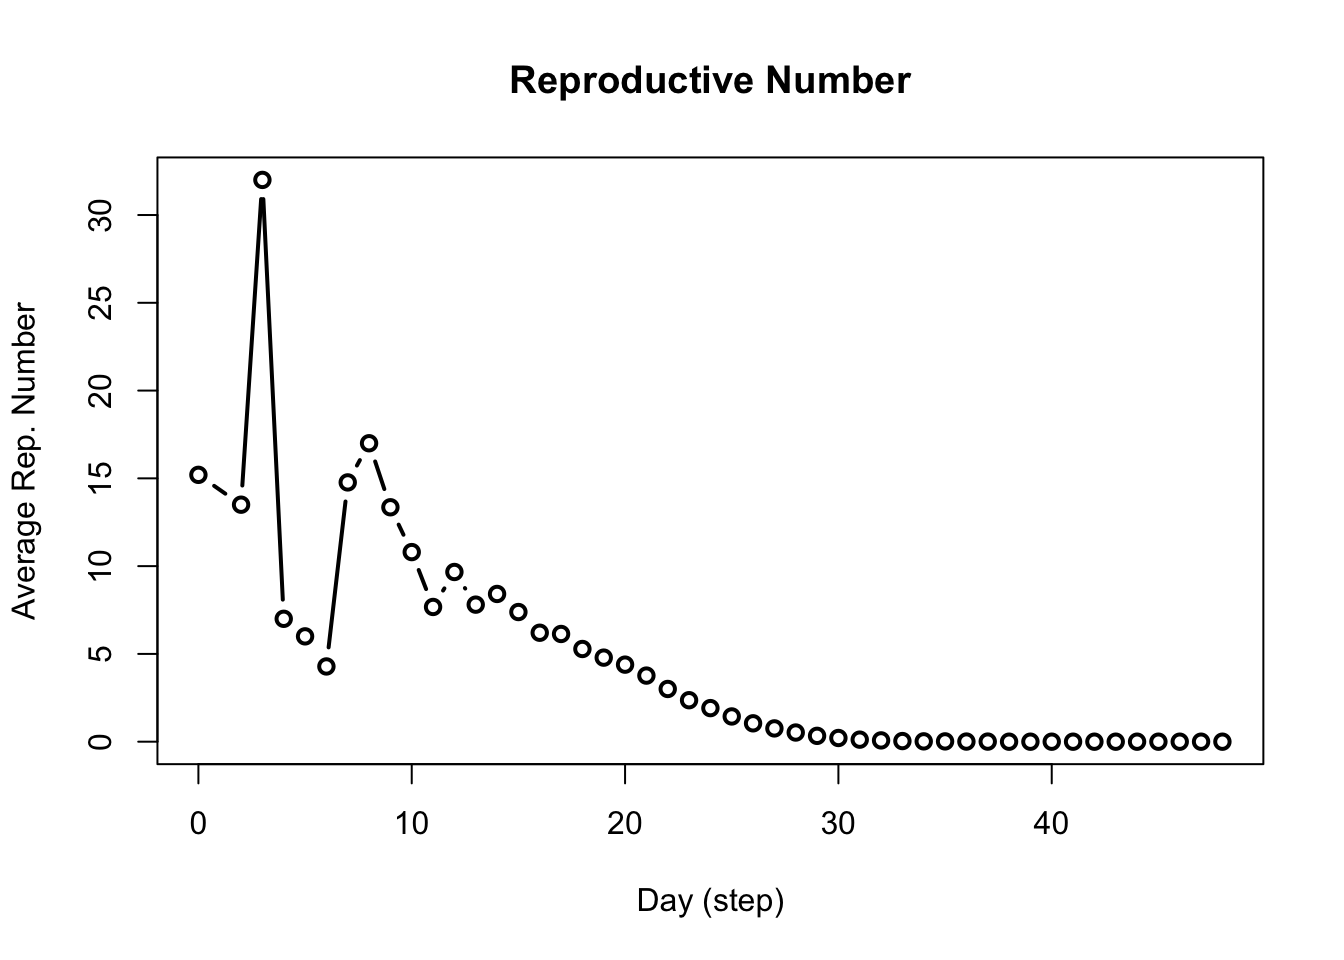
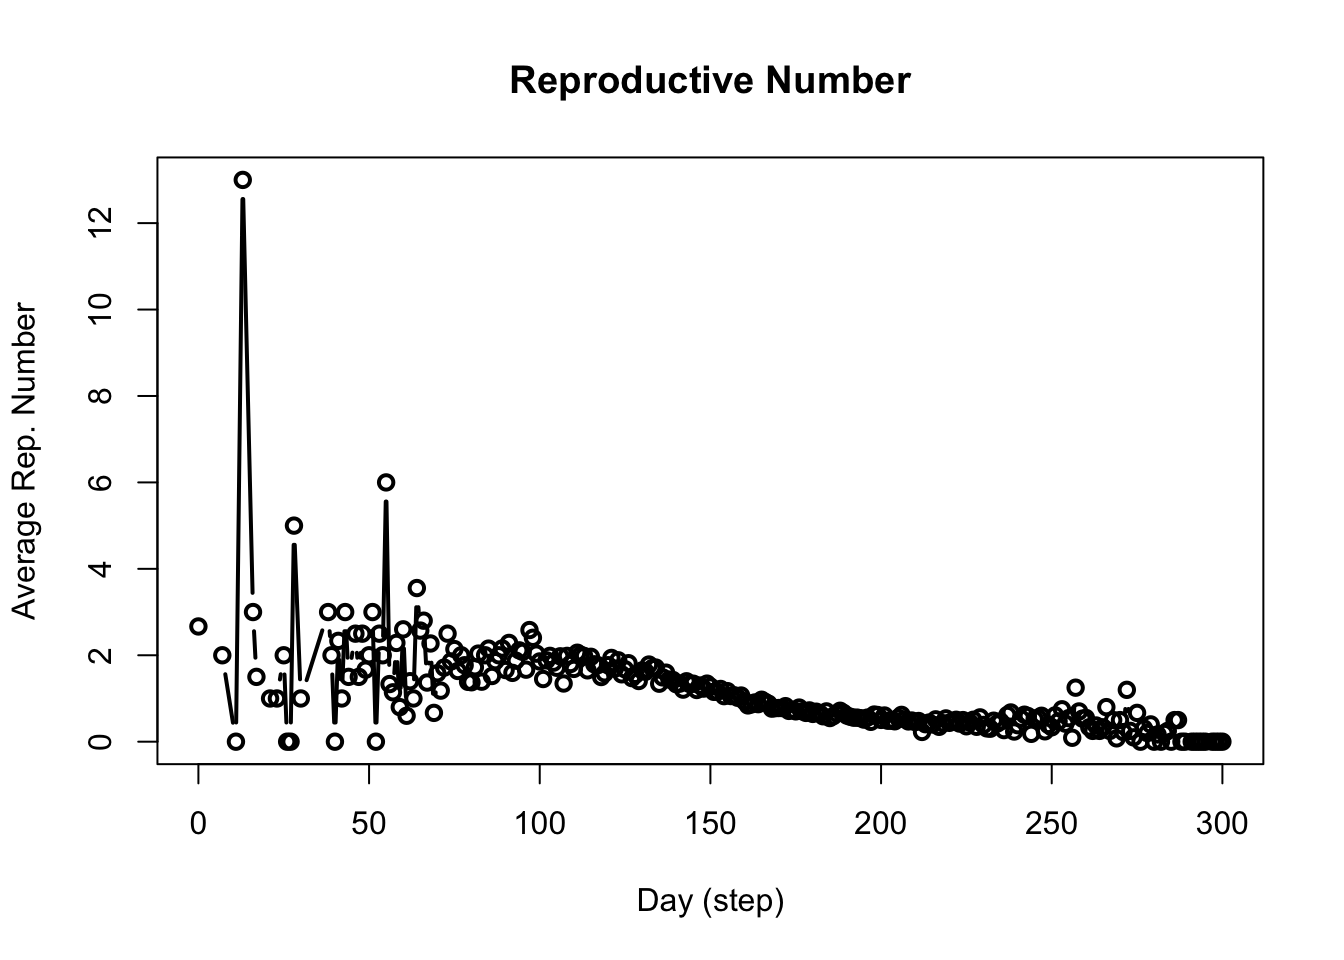
Use R0 equation for monkeypox

diff --git a/docs/part1.html b/docs/part1.html
@@ -258,7 +258,7 @@ see '?methods' for accessing help and source code</code></pre>
 <li>
 <strong>Initial Disease Prevalence:</strong> 0.0001 (5 agents start the simulation exposed to the virus)</li>
 <li>
-<strong>Contact Rate:</strong> 4 (each agent will contact 4 others during each model step/day)</li>
+<strong>Contact Rate:</strong> 4 (how many other agents each agent will contact during each model step/day)</li>
 <li>
 <strong>Incubation Days:</strong> 7 (how long after infection before symptoms appear)</li>
 <li>
@@ -266,18 +266,27 @@ see '?methods' for accessing help and source code</code></pre>
 <li>
 <strong>Recovery Rate:</strong> <span class="math inline">\(\frac{1}{7}\)</span> (infected agents take 7 days to recover)</li>
 </ul>
+<p>Using the <a href="https://en.wikipedia.org/wiki/Basic_reproduction_number" target="_blank">basic reproductive number</a> equation (R0) equation (R0 = P(transmission) * contact_rate / P(recovery)) and <code>R0_monkeypox = 2.44</code>, the contact rate is computed as about 0.571 as follows:</p>
+<div class="cell">
+<details open="" class="code-fold"><summary>Code</summary><div class="sourceCode cell-code" id="cb3"><pre class="sourceCode numberSource r number-lines code-with-copy"><code class="sourceCode r"><span id="cb3-1"><a href="#cb3-1"></a>monkeypox_r0 <span class="ot">&lt;-</span> <span class="dv">2</span></span>
+<span id="cb3-2"><a href="#cb3-2"></a>monkeypox_transmission_rate <span class="ot">&lt;-</span> <span class="fl">0.5</span></span>
+<span id="cb3-3"><a href="#cb3-3"></a>monkeypox_recovery_rate <span class="ot">&lt;-</span> <span class="dv">1</span><span class="sc">/</span><span class="dv">7</span></span>
+<span id="cb3-4"><a href="#cb3-4"></a></span>
+<span id="cb3-5"><a href="#cb3-5"></a>monkeypox_contact_rate <span class="ot">&lt;-</span> monkeypox_r0 <span class="sc">*</span> monkeypox_recovery_rate <span class="sc">/</span> monkeypox_transmission_rate</span></code><button title="Copy to Clipboard" class="code-copy-button"><i class="bi"></i></button></pre></div>
+</details>
+</div>
 <section id="model-setup" class="level3"><h3 class="anchored" data-anchor-id="model-setup">Model Setup</h3>
 <p>Create the model with the above characteristics using the <code>ModelSEIRCONN()</code> function.</p>
 <div class="cell">
-<details open="" class="code-fold"><summary>Code</summary><div class="sourceCode cell-code" id="cb3"><pre class="sourceCode numberSource r number-lines code-with-copy"><code class="sourceCode r"><span id="cb3-1"><a href="#cb3-1"></a>monkeypox_model <span class="ot">&lt;-</span> <span class="fu">ModelSEIRCONN</span>(</span>
-<span id="cb3-2"><a href="#cb3-2"></a>  <span class="at">name              =</span> <span class="st">"Monkeypox"</span>,</span>
-<span id="cb3-3"><a href="#cb3-3"></a>  <span class="at">n                 =</span> <span class="dv">50000</span>, </span>
-<span id="cb3-4"><a href="#cb3-4"></a>  <span class="at">prevalence        =</span> <span class="fl">0.0001</span>, </span>
-<span id="cb3-5"><a href="#cb3-5"></a>  <span class="at">contact_rate      =</span> <span class="dv">4</span>,</span>
-<span id="cb3-6"><a href="#cb3-6"></a>  <span class="at">incubation_days   =</span> <span class="dv">7</span>,</span>
-<span id="cb3-7"><a href="#cb3-7"></a>  <span class="at">transmission_rate =</span> <span class="fl">0.5</span>,</span>
-<span id="cb3-8"><a href="#cb3-8"></a>  <span class="at">recovery_rate     =</span> <span class="dv">1</span><span class="sc">/</span><span class="dv">7</span></span>
-<span id="cb3-9"><a href="#cb3-9"></a>  )</span></code><button title="Copy to Clipboard" class="code-copy-button"><i class="bi"></i></button></pre></div>
+<details open="" class="code-fold"><summary>Code</summary><div class="sourceCode cell-code" id="cb4"><pre class="sourceCode numberSource r number-lines code-with-copy"><code class="sourceCode r"><span id="cb4-1"><a href="#cb4-1"></a>monkeypox_model <span class="ot">&lt;-</span> <span class="fu">ModelSEIRCONN</span>(</span>
+<span id="cb4-2"><a href="#cb4-2"></a>  <span class="at">name              =</span> <span class="st">"Monkeypox"</span>,</span>
+<span id="cb4-3"><a href="#cb4-3"></a>  <span class="at">n                 =</span> <span class="dv">50000</span>, </span>
+<span id="cb4-4"><a href="#cb4-4"></a>  <span class="at">prevalence        =</span> <span class="fl">0.0001</span>, </span>
+<span id="cb4-5"><a href="#cb4-5"></a>  <span class="at">contact_rate      =</span> monkeypox_contact_rate,</span>
+<span id="cb4-6"><a href="#cb4-6"></a>  <span class="at">incubation_days   =</span> <span class="dv">7</span>,</span>
+<span id="cb4-7"><a href="#cb4-7"></a>  <span class="at">transmission_rate =</span> monkeypox_transmission_rate,</span>
+<span id="cb4-8"><a href="#cb4-8"></a>  <span class="at">recovery_rate     =</span> monkeypox_recovery_rate</span>
+<span id="cb4-9"><a href="#cb4-9"></a>  )</span></code><button title="Copy to Clipboard" class="code-copy-button"><i class="bi"></i></button></pre></div>
 </details>
 </div>
 </section><section id="run-the-model" class="level3"><h3 class="anchored" data-anchor-id="run-the-model">Run the Model</h3>
@@ -303,34 +312,34 @@ Connected vs Non-Connected Models
 </div>
 </div>
 <div class="cell">
-<details open="" class="code-fold"><summary>Code</summary><div class="sourceCode cell-code" id="cb4"><pre class="sourceCode numberSource r number-lines code-with-copy"><code class="sourceCode r"><span id="cb4-1"><a href="#cb4-1"></a><span class="fu">verbose_off</span>(monkeypox_model)</span>
-<span id="cb4-2"><a href="#cb4-2"></a><span class="fu">run</span>(monkeypox_model, <span class="at">ndays =</span> <span class="dv">100</span>, <span class="at">seed =</span> <span class="dv">1912</span>)</span>
-<span id="cb4-3"><a href="#cb4-3"></a></span>
-<span id="cb4-4"><a href="#cb4-4"></a>monkeypox_model</span></code><button title="Copy to Clipboard" class="code-copy-button"><i class="bi"></i></button></pre></div>
+<details open="" class="code-fold"><summary>Code</summary><div class="sourceCode cell-code" id="cb5"><pre class="sourceCode numberSource r number-lines code-with-copy"><code class="sourceCode r"><span id="cb5-1"><a href="#cb5-1"></a><span class="fu">verbose_off</span>(monkeypox_model)</span>
+<span id="cb5-2"><a href="#cb5-2"></a><span class="fu">run</span>(monkeypox_model, <span class="at">ndays =</span> <span class="dv">100</span>, <span class="at">seed =</span> <span class="dv">1912</span>)</span>
+<span id="cb5-3"><a href="#cb5-3"></a></span>
+<span id="cb5-4"><a href="#cb5-4"></a>monkeypox_model</span></code><button title="Copy to Clipboard" class="code-copy-button"><i class="bi"></i></button></pre></div>
 </details><div class="cell-output cell-output-stdout">
 <pre><code>________________________________________________________________________________
 Susceptible-Exposed-Infected-Removed (SEIR) (connected)
 It features 50000 agents, 1 virus(es), and 0 tool(s).
 The model has 4 states.
-The final distribution is: 0 Susceptible, 1 Exposed, 8 Infected, and 49991 Recovered.</code></pre>
+The final distribution is: 48982 Susceptible, 265 Exposed, 209 Infected, and 544 Recovered.</code></pre>
 </div>
 </div>
 <p>After running the model, printing it gives the final distribution of agents across the four SEIR states. If we want to re-run the model for a different duraction, <code>epiworldR</code> allows us to do this without re-initializing the model.</p>
 <div class="cell">
-<details open="" class="code-fold"><summary>Code</summary><div class="sourceCode cell-code" id="cb6"><pre class="sourceCode numberSource r number-lines code-with-copy"><code class="sourceCode r"><span id="cb6-1"><a href="#cb6-1"></a><span class="fu">run</span>(monkeypox_model, <span class="at">ndays =</span> <span class="dv">60</span>, <span class="at">seed =</span> <span class="dv">1912</span>)</span>
-<span id="cb6-2"><a href="#cb6-2"></a>monkeypox_model</span></code><button title="Copy to Clipboard" class="code-copy-button"><i class="bi"></i></button></pre></div>
+<details open="" class="code-fold"><summary>Code</summary><div class="sourceCode cell-code" id="cb7"><pre class="sourceCode numberSource r number-lines code-with-copy"><code class="sourceCode r"><span id="cb7-1"><a href="#cb7-1"></a><span class="fu">run</span>(monkeypox_model, <span class="at">ndays =</span> <span class="dv">300</span>, <span class="at">seed =</span> <span class="dv">1912</span>)</span>
+<span id="cb7-2"><a href="#cb7-2"></a>monkeypox_model</span></code><button title="Copy to Clipboard" class="code-copy-button"><i class="bi"></i></button></pre></div>
 </details><div class="cell-output cell-output-stdout">
 <pre><code>________________________________________________________________________________
 Susceptible-Exposed-Infected-Removed (SEIR) (connected)
 It features 50000 agents, 1 virus(es), and 0 tool(s).
 The model has 4 states.
-The final distribution is: 0 Susceptible, 474 Exposed, 2263 Infected, and 47263 Recovered.</code></pre>
+The final distribution is: 10212 Susceptible, 18 Exposed, 29 Infected, and 39741 Recovered.</code></pre>
 </div>
 </div>
 </section><section id="model-summary" class="level3"><h3 class="anchored" data-anchor-id="model-summary">Model Summary</h3>
 <p>For more detailed output than the simple print, use the <code><a href="https://rdrr.io/r/base/summary.html">summary()</a></code> function:</p>
 <div class="cell">
-<details open="" class="code-fold"><summary>Code</summary><div class="sourceCode cell-code" id="cb8"><pre class="sourceCode numberSource r number-lines code-with-copy"><code class="sourceCode r"><span id="cb8-1"><a href="#cb8-1"></a><span class="fu">summary</span>(monkeypox_model)</span></code><button title="Copy to Clipboard" class="code-copy-button"><i class="bi"></i></button></pre></div>
+<details open="" class="code-fold"><summary>Code</summary><div class="sourceCode cell-code" id="cb9"><pre class="sourceCode numberSource r number-lines code-with-copy"><code class="sourceCode r"><span id="cb9-1"><a href="#cb9-1"></a><span class="fu">summary</span>(monkeypox_model)</span></code><button title="Copy to Clipboard" class="code-copy-button"><i class="bi"></i></button></pre></div>
 </details><div class="cell-output cell-output-stdout">
 <pre><code>________________________________________________________________________________
 ________________________________________________________________________________
@@ -340,12 +349,12 @@ Name of the model   : Susceptible-Exposed-Infected-Removed (SEIR) (connected)
 Population size     : 50000
 Agents' data        : (none)
 Number of entities  : 0
-Days (duration)     : 60 (of 60)
+Days (duration)     : 300 (of 300)
 Number of viruses   : 1
-Last run elapsed t  : 97.00ms
-Total elapsed t     : 205.00ms (2 runs)
-Last run speed      : 30.82 million agents x day / second
-Average run speed   : 29.23 million agents x day / second
+Last run elapsed t  : 201.00ms
+Total elapsed t     : 265.00ms (2 runs)
+Last run speed      : 74.31 million agents x day / second
+Average run speed   : 113.02 million agents x day / second
 Rewiring            : off
 
 Global events:
@@ -359,20 +368,20 @@ Tool(s):
 
 Model parameters:
  - Avg. Incubation days : 7.0000
- - Contact rate         : 4.0000
+ - Contact rate         : 0.5714
  - Prob. Recovery       : 0.1429
  - Prob. Transmission   : 0.5000
 
-Distribution of the population at time 60:
-  - (0) Susceptible : 49995 -&gt; 0
-  - (1) Exposed     :     5 -&gt; 474
-  - (2) Infected    :     0 -&gt; 2263
-  - (3) Recovered   :     0 -&gt; 47263
+Distribution of the population at time 300:
+  - (0) Susceptible : 49995 -&gt; 10212
+  - (1) Exposed     :     5 -&gt; 18
+  - (2) Infected    :     0 -&gt; 29
+  - (3) Recovered   :     0 -&gt; 39741
 
 Transition Probabilities:
- - Susceptible  0.82  0.18  0.00  0.00
- - Exposed      0.00  0.86  0.14  0.00
- - Infected     0.00  0.00  0.87  0.13
+ - Susceptible  0.99  0.01  0.00  0.00
+ - Exposed      0.00  0.87  0.13  0.00
+ - Infected     0.00  0.00  0.86  0.14
  - Recovered    0.00  0.00  0.00  1.00</code></pre>
 </div>
 </div>
@@ -388,7 +397,7 @@ Transition Probabilities:
 <p>Take some time to familiarize yourself with this output.</p>
 </section><section id="model-visualization" class="level3"><h3 class="anchored" data-anchor-id="model-visualization">Model Visualization</h3>
 <div class="cell">
-<details open="" class="code-fold"><summary>Code</summary><div class="sourceCode cell-code" id="cb10"><pre class="sourceCode numberSource r number-lines code-with-copy"><code class="sourceCode r"><span id="cb10-1"><a href="#cb10-1"></a><span class="fu">plot_incidence</span>(monkeypox_model)</span></code><button title="Copy to Clipboard" class="code-copy-button"><i class="bi"></i></button></pre></div>
+<details open="" class="code-fold"><summary>Code</summary><div class="sourceCode cell-code" id="cb11"><pre class="sourceCode numberSource r number-lines code-with-copy"><code class="sourceCode r"><span id="cb11-1"><a href="#cb11-1"></a><span class="fu">plot_incidence</span>(monkeypox_model)</span></code><button title="Copy to Clipboard" class="code-copy-button"><i class="bi"></i></button></pre></div>
 </details><div class="cell-output-display">
 <div>
 <figure class="figure"><p><img src="part1_files/figure-html/plot-model-1.png" class="img-fluid figure-img" width="672"></p>
@@ -398,7 +407,7 @@ Transition Probabilities:
 </div>
 <p>The <code>plot_incidence()</code> function plots the number of agents in each of the four SEIR states over the course of the model simulation. You can get this data in tabular form with the <code>get_hist_total()</code> function:</p>
 <div class="cell">
-<details open="" class="code-fold"><summary>Code</summary><div class="sourceCode cell-code" id="cb11"><pre class="sourceCode numberSource r number-lines code-with-copy"><code class="sourceCode r"><span id="cb11-1"><a href="#cb11-1"></a><span class="fu">head</span>(<span class="fu">get_hist_total</span>(monkeypox_model))</span></code><button title="Copy to Clipboard" class="code-copy-button"><i class="bi"></i></button></pre></div>
+<details open="" class="code-fold"><summary>Code</summary><div class="sourceCode cell-code" id="cb12"><pre class="sourceCode numberSource r number-lines code-with-copy"><code class="sourceCode r"><span id="cb12-1"><a href="#cb12-1"></a><span class="fu">head</span>(<span class="fu">get_hist_total</span>(monkeypox_model))</span></code><button title="Copy to Clipboard" class="code-copy-button"><i class="bi"></i></button></pre></div>
 </details><div class="cell-output cell-output-stdout">
 <pre><code>  date       state counts
 1    0 Susceptible  49995
@@ -412,22 +421,22 @@ Transition Probabilities:
 </section><section id="reproductive-number" class="level3"><h3 class="anchored" data-anchor-id="reproductive-number">Reproductive Number</h3>
 <p>An important statistic in epidemiological models is the <a href="https://en.wikipedia.org/wiki/Basic_reproduction_number#Effective_reproduction_number">reproductive number</a>. We get this from an <code>epiworldR</code> model using the <code>get_reproductive_number()</code> function.</p>
 <div class="cell">
-<details open="" class="code-fold"><summary>Code</summary><div class="sourceCode cell-code" id="cb13"><pre class="sourceCode numberSource r number-lines code-with-copy"><code class="sourceCode r"><span id="cb13-1"><a href="#cb13-1"></a>repnum <span class="ot">&lt;-</span> <span class="fu">get_reproductive_number</span>(monkeypox_model)</span>
-<span id="cb13-2"><a href="#cb13-2"></a><span class="fu">head</span>(repnum)</span></code><button title="Copy to Clipboard" class="code-copy-button"><i class="bi"></i></button></pre></div>
+<details open="" class="code-fold"><summary>Code</summary><div class="sourceCode cell-code" id="cb14"><pre class="sourceCode numberSource r number-lines code-with-copy"><code class="sourceCode r"><span id="cb14-1"><a href="#cb14-1"></a>repnum <span class="ot">&lt;-</span> <span class="fu">get_reproductive_number</span>(monkeypox_model)</span>
+<span id="cb14-2"><a href="#cb14-2"></a><span class="fu">head</span>(repnum)</span></code><button title="Copy to Clipboard" class="code-copy-button"><i class="bi"></i></button></pre></div>
 </details><div class="cell-output cell-output-stdout">
 <pre><code>  virus_id     virus source source_exposure_date rt
-1        0 Monkeypox  13873                   48  0
-2        0 Monkeypox   2890                   48  0
-3        0 Monkeypox  47514                   46  0
-4        0 Monkeypox  34129                   46  0
-5        0 Monkeypox  48375                   45  0
-6        0 Monkeypox  31698                   45  0</code></pre>
+1        0 Monkeypox  31651                  300  0
+2        0 Monkeypox  27890                  299  0
+3        0 Monkeypox  27283                  298  0
+4        0 Monkeypox  31774                  295  0
+5        0 Monkeypox  12317                  295  0
+6        0 Monkeypox   5964                  292  0</code></pre>
 </div>
 </div>
-<p>Virus listed (each agent has a rt for each day of the model)</p>
+<p>The <code>repnum</code> object stores the reproductive number of each agent (listed by their ID under the <code>source</code> column) for each virus. Agents who haven’t been infected yet don’t have a reproductive number, consequently agents are only added to the <code>repnum</code> object when they have been infected.</p>
 <p>Plot the reproductive number using:</p>
 <div class="cell">
-<details open="" class="code-fold"><summary>Code</summary><div class="sourceCode cell-code" id="cb15"><pre class="sourceCode numberSource r number-lines code-with-copy"><code class="sourceCode r"><span id="cb15-1"><a href="#cb15-1"></a>x <span class="ot">&lt;-</span> <span class="fu">plot</span>(repnum, <span class="at">type=</span><span class="st">"b"</span>)</span></code><button title="Copy to Clipboard" class="code-copy-button"><i class="bi"></i></button></pre></div>
+<details open="" class="code-fold"><summary>Code</summary><div class="sourceCode cell-code" id="cb16"><pre class="sourceCode numberSource r number-lines code-with-copy"><code class="sourceCode r"><span id="cb16-1"><a href="#cb16-1"></a>x <span class="ot">&lt;-</span> <span class="fu">plot</span>(repnum, <span class="at">type=</span><span class="st">"b"</span>)</span></code><button title="Copy to Clipboard" class="code-copy-button"><i class="bi"></i></button></pre></div>
 </details><div class="cell-output-display">
 <div>
 <figure class="figure"><p><img src="part1_files/figure-html/plot-repnum-1.png" class="img-fluid figure-img" width="672"></p>
@@ -462,13 +471,13 @@ Transition Probabilities:
 <p>From there, run the model and visualize.</p>
 <p>After how many days does the number of infections peak in this simulation? How many infections occur at the peak?</p>
 <div class="cell">
-<details open="" class="code-fold"><summary>Code</summary><div class="sourceCode cell-code" id="cb16"><pre class="sourceCode numberSource r number-lines code-with-copy"><code class="sourceCode r"><span id="cb16-1"><a href="#cb16-1"></a><span class="co"># Your solution here</span></span></code><button title="Copy to Clipboard" class="code-copy-button"><i class="bi"></i></button></pre></div>
+<details open="" class="code-fold"><summary>Code</summary><div class="sourceCode cell-code" id="cb17"><pre class="sourceCode numberSource r number-lines code-with-copy"><code class="sourceCode r"><span id="cb17-1"><a href="#cb17-1"></a><span class="co"># Your solution here</span></span></code><button title="Copy to Clipboard" class="code-copy-button"><i class="bi"></i></button></pre></div>
 </details>
 </div>
 </section><section id="exercise-2" class="level2"><h2 class="anchored" data-anchor-id="exercise-2">Exercise 2</h2>
 <p>Plot the reproductive number of the COVID-19 simulated SEIR model over 100 days.</p>
 <div class="cell">
-<details open="" class="code-fold"><summary>Code</summary><div class="sourceCode cell-code" id="cb17"><pre class="sourceCode numberSource r number-lines code-with-copy"><code class="sourceCode r"><span id="cb17-1"><a href="#cb17-1"></a><span class="co"># Your solution here</span></span></code><button title="Copy to Clipboard" class="code-copy-button"><i class="bi"></i></button></pre></div>
+<details open="" class="code-fold"><summary>Code</summary><div class="sourceCode cell-code" id="cb18"><pre class="sourceCode numberSource r number-lines code-with-copy"><code class="sourceCode r"><span id="cb18-1"><a href="#cb18-1"></a><span class="co"># Your solution here</span></span></code><button title="Copy to Clipboard" class="code-copy-button"><i class="bi"></i></button></pre></div>
 </details>
 </div>
 
